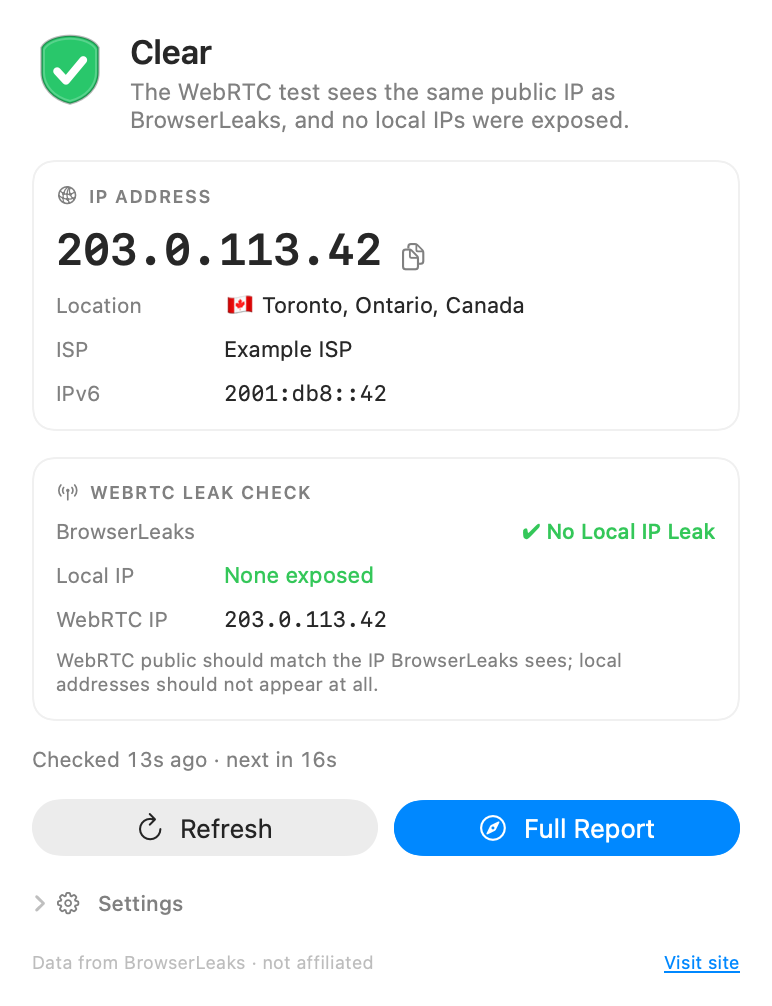
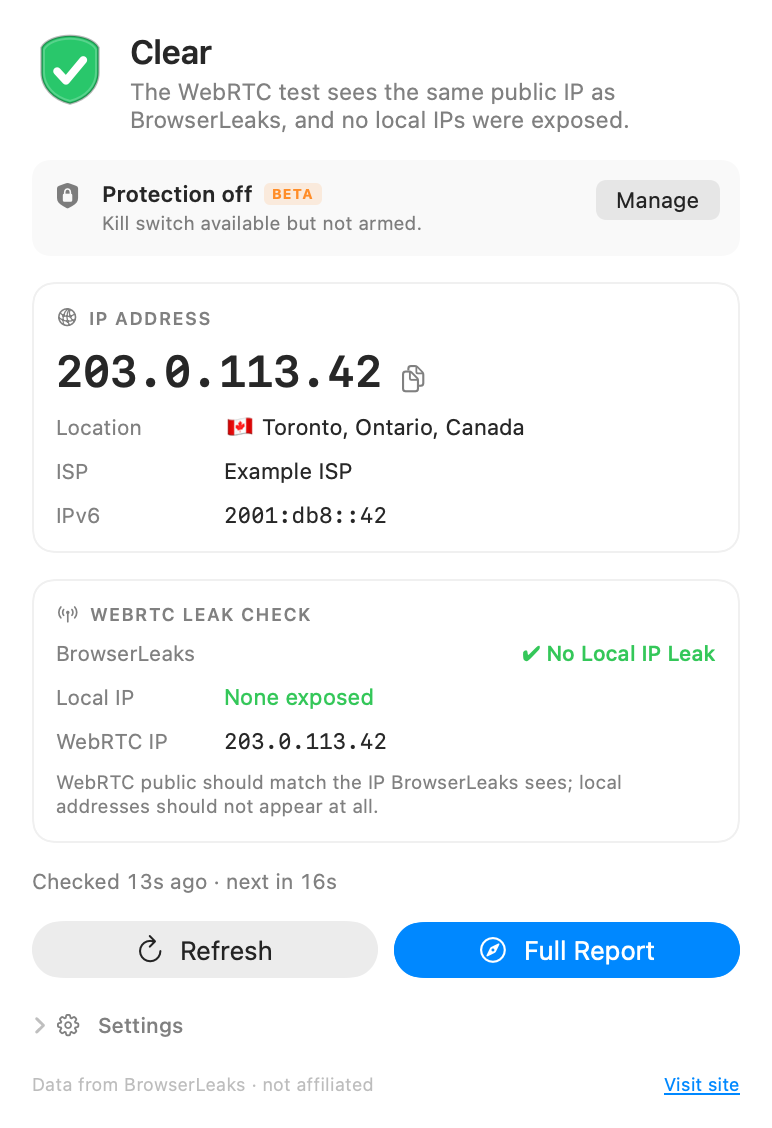
Show Protection in macOS popover and release 1.1.1

diff --git a/Sources/ShieldBar/DashboardView.swift b/Sources/ShieldBar/DashboardView.swift
@@ -5,6 +5,7 @@ import SwiftUI
 @MainActor
 struct DashboardView: View {
     @ObservedObject var monitor: Monitor
+    @ObservedObject var protection: ProtectionController
     let actions: DashboardActions
 
     @State private var copiedIP = false
@@ -16,6 +17,7 @@ struct DashboardView: View {
             if monitor.showWelcome {
                 welcomeCard
             }
+            protectionCard
             ipCard
             webRTCard
             freshness
@@ -79,6 +81,84 @@ struct DashboardView: View {
         .background(
             RoundedRectangle(cornerRadius: 9, style: .continuous)
                 .fill(Color.accentColor.opacity(0.09))
+        )
+    }
+
+    private var protectionCard: some View {
+        let state = protection.viewState
+        let triggered = state.triggered
+        let armed = state.armed
+        let failed = state.phase == .error
+
+        let title: String
+        let detail: String
+        if triggered {
+            title = "Protection triggered"
+            detail = "Networking is disabled. Restore manually when ready."
+        } else if armed {
+            title = "Protection armed"
+            detail = state.baselineLabel.map { "Monitoring · \($0)" }
+                ?? "Monitoring every 15 seconds."
+        } else if failed {
+            title = "Protection error"
+            detail = state.message ?? "Open Protection for details."
+        } else if state.helperInstalled {
+            title = "Protection off"
+            detail = "Kill switch available but not armed."
+        } else {
+            title = "Protection not set up"
+            detail = "Install the helper to enable the kill switch."
+        }
+
+        let tint: Color = triggered ? .red : armed ? .green : failed ? .orange : .secondary
+
+        return HStack(alignment: .top, spacing: 9) {
+            Image(systemName: triggered ? "wifi.slash" : "lock.shield.fill")
+                .font(.system(size: 13, weight: .medium))
+                .foregroundColor(tint)
+                .frame(width: 16, height: 16)
+
+            VStack(alignment: .leading, spacing: 2) {
+                HStack(spacing: 5) {
+                    Text(title)
+                        .font(.system(size: 11, weight: .semibold))
+                    Text("BETA")
+                        .font(.system(size: 7, weight: .bold))
+                        .tracking(0.4)
+                        .padding(.horizontal, 4)
+                        .padding(.vertical, 1)
+                        .background(Color.orange.opacity(0.14))
+                        .foregroundColor(.orange)
+                        .clipShape(RoundedRectangle(cornerRadius: 3, style: .continuous))
+                }
+                Text(detail)
+                    .font(.system(size: 9.5))
+                    .foregroundColor(.secondary)
+                    .fixedSize(horizontal: false, vertical: true)
+            }
+
+            Spacer(minLength: 0)
+
+            if triggered {
+                Button("Restore") {
+                    actions.restoreNetwork()
+                }
+                .buttonStyle(.borderedProminent)
+                .tint(.red)
+                .controlSize(.small)
+                .font(.system(size: 10))
+            } else {
+                Button(state.helperInstalled ? "Manage" : "Set up") {
+                    actions.openProtection()
+                }
+                .controlSize(.small)
+                .font(.system(size: 10))
+            }
+        }
+        .padding(10)
+        .background(
+            RoundedRectangle(cornerRadius: 9, style: .continuous)
+                .fill(tint.opacity(triggered || armed || failed ? 0.09 : 0.05))
         )
     }
 
@@ -283,10 +363,13 @@ struct DashboardView: View {
                     .fixedSize(horizontal: false, vertical: true)
 
                 HStack(spacing: 10) {
+                    Button("Protection…") {
+                        actions.openProtection()
+                    }
+                    Spacer(minLength: 0)
                     Button("About ShieldBar") {
                         actions.showAbout()
                     }
-                    Spacer(minLength: 0)
                     Button("Quit ShieldBar") {
                         actions.quit()
                     }

diff --git a/Sources/ShieldBar/PreviewRenderer.swift b/Sources/ShieldBar/PreviewRenderer.swift
@@ -16,9 +16,14 @@ enum PreviewRenderer {
 
         let actions = DashboardActions(
             openFullReport: {},
+            openProtection: {},
+            restoreNetwork: {},
             quit: {},
             showAbout: {},
             openBrowserLeaks: {}
+        )
+        let previewProtection = ProtectionController(
+            previewState: protectionPreviewState(triggered: false)
         )
 
         let previews: [(String, Monitor)] = [
@@ -33,7 +38,11 @@ enum PreviewRenderer {
         ]
 
         for (name, monitor) in previews {
-            let view = DashboardView(monitor: monitor, actions: actions)
+            let view = DashboardView(
+                monitor: monitor,
+                protection: previewProtection,
+                actions: actions
+            )
             let renderer = ImageRenderer(content: view)
             renderer.scale = 2
             renderer.proposedSize = ProposedViewSize(width: 386, height: nil)
@@ -187,7 +196,7 @@ enum PreviewRenderer {
         var state = ProtectionViewState()
         state.phase = triggered ? .triggered : .ready
         state.helperInstalled = true
-        state.helperVersion = "1.1.0"
+        state.helperVersion = "1.1.1"
         state.settings = ProtectionSettings(
             enabled: true,
             killOnPublicLeak: true,

diff --git a/Sources/ShieldBar/StatusBarController.swift b/Sources/ShieldBar/StatusBarController.swift
@@ -71,6 +71,12 @@ final class StatusBarController: NSObject, NSPopoverDelegate {
                     self?.onOpenFullReport?()
                 }
             },
+            openProtection: { [weak self] in
+                self?.onOpenProtection?()
+            },
+            restoreNetwork: { [weak self] in
+                self?.onRestoreNetwork?()
+            },
             quit: {
                 NSApp.terminate(nil)
             },
@@ -82,7 +88,7 @@ final class StatusBarController: NSObject, NSPopoverDelegate {
             }
         )
 
-        let view = DashboardView(monitor: monitor, actions: actions)
+        let view = DashboardView(monitor: monitor, protection: protection, actions: actions)
         let hosting = NSHostingController(rootView: view)
         hosting.sizingOptions = [.preferredContentSize]
         hostingController = hosting
@@ -267,6 +273,8 @@ final class StatusBarController: NSObject, NSPopoverDelegate {
 
 struct DashboardActions {
     var openFullReport: () -> Void
+    var openProtection: () -> Void
+    var restoreNetwork: () -> Void
     var quit: () -> Void
     var showAbout: () -> Void
     var openBrowserLeaks: () -> Void

diff --git a/desktop/src/renderer/src/protectionFixtures.ts b/desktop/src/renderer/src/protectionFixtures.ts
@@ -13,7 +13,7 @@ export function previewProtectionState(triggered = false): ProtectionState {
     lastTrigger: triggered ? 'publicLeak' : null,
     baselineLabel: triggered ? null : 'Canada · Ontario · Toronto',
     helperInstalled: true,
-    helperVersion: '1.1.0',
+    helperVersion: '1.1.1',
     settings: {
       ...DEFAULT_PROTECTION_SETTINGS,
       enabled: true,

diff --git a/desktop/src/main/index.ts b/desktop/src/main/index.ts
@@ -412,7 +412,7 @@ async function runSmokeTest(): Promise<number> {
     lastTrigger: null,
     baselineLabel: 'Canada',
     helperInstalled: true,
-    helperVersion: '1.1.0',
+    helperVersion: '1.1.1',
     settings: { ...DEFAULT_PROTECTION_SETTINGS, enabled: true },
     baseline: {
       label: 'Canada',

diff --git a/helper/protocol.go b/helper/protocol.go
@@ -10,7 +10,7 @@ import (
 )
 
 const (
-	helperVersion   = "1.1.0"
+	helperVersion   = "1.1.1"
 	protocolVersion = 1
 )
 

diff --git a/README.md b/README.md
@@ -13,7 +13,7 @@
   <img alt="macOS arm64" src="https://img.shields.io/badge/macOS-arm64-111111?logo=apple&logoColor=white">
   <img alt="Windows x64" src="https://img.shields.io/badge/Windows-x64-0078D4?logo=windows&logoColor=white">
   <img alt="Linux x64" src="https://img.shields.io/badge/Linux-x64-FCC624?logo=linux&logoColor=black">
-  <img alt="Version 1.1.0" src="https://img.shields.io/badge/version-1.1.0-2ea44f">
+  <img alt="Version 1.1.1" src="https://img.shields.io/badge/version-1.1.1-2ea44f">
   <img alt="Protection Beta" src="https://img.shields.io/badge/Protection-Beta-orange">
 </p>
 
@@ -29,13 +29,13 @@
 
 ## Download
 
-[**ShieldBar v1.1.0**](https://github.com/TH3L30/ShieldBar/releases/tag/v1.1.0) · [SHA256SUMS.txt](https://github.com/TH3L30/ShieldBar/releases/tag/v1.1.0)
+[**ShieldBar v1.1.1**](https://github.com/TH3L30/ShieldBar/releases/tag/v1.1.1) · [SHA256SUMS.txt](https://github.com/TH3L30/ShieldBar/releases/tag/v1.1.1)
 
 | Platform | Requires | Asset |
 | --- | --- | --- |
-| macOS | macOS 13+, Apple silicon | [`ShieldBar-1.1.0-macos-arm64.zip`](https://github.com/TH3L30/ShieldBar/releases/tag/v1.1.0)* |
-| Windows | Windows 10/11, x64 | [`ShieldBar-1.1.0-win-x64.exe`](https://github.com/TH3L30/ShieldBar/releases/tag/v1.1.0) · [`ShieldBar-1.1.0-win-x64.zip`](https://github.com/TH3L30/ShieldBar/releases/tag/v1.1.0) |
-| Linux | x64, glibc-based distro | [`ShieldBar-1.1.0-linux-x86_64.AppImage`](https://github.com/TH3L30/ShieldBar/releases/tag/v1.1.0) · [`ShieldBar-1.1.0-linux-amd64.deb`](https://github.com/TH3L30/ShieldBar/releases/tag/v1.1.0) |
+| macOS | macOS 13+, Apple silicon | [`ShieldBar-1.1.1-macos-arm64.zip`](https://github.com/TH3L30/ShieldBar/releases/tag/v1.1.1)* |
+| Windows | Windows 10/11, x64 | [`ShieldBar-1.1.1-win-x64.exe`](https://github.com/TH3L30/ShieldBar/releases/tag/v1.1.1) · [`ShieldBar-1.1.1-win-x64.zip`](https://github.com/TH3L30/ShieldBar/releases/tag/v1.1.1) |
+| Linux | x64, glibc-based distro | [`ShieldBar-1.1.1-linux-x86_64.AppImage`](https://github.com/TH3L30/ShieldBar/releases/tag/v1.1.1) · [`ShieldBar-1.1.1-linux-amd64.deb`](https://github.com/TH3L30/ShieldBar/releases/tag/v1.1.1) |
 
 <sub>* The macOS build is arm64, ad-hoc signed, and not notarized. Windows and Linux builds are unsigned. Verify downloads against `SHA256SUMS.txt`. There is no auto-update.</sub>
 
@@ -96,7 +96,7 @@ See [docs/PRIVACY.md](docs/PRIVACY.md) for the full data-handling details.
 
 - **macOS:** unzip, move `ShieldBar.app` to Applications, then Control-click → **Open** the first time. Requires Apple silicon.
 - **Windows:** run the `.exe` installer, or unpack the portable `.zip`. SmartScreen will warn because the build is unsigned.
-- **Linux:** `chmod +x` the AppImage and run it, or install the `.deb` with `sudo apt install ./ShieldBar-1.1.0-linux-amd64.deb`.
+- **Linux:** `chmod +x` the AppImage and run it, or install the `.deb` with `sudo apt install ./ShieldBar-1.1.1-linux-amd64.deb`.
 
 ShieldBar lives in the **menu bar** on macOS and the **system tray** on Windows and Linux. It keeps running when windows close; use **Quit ShieldBar** to exit. Protection requires ShieldBar to stay running.
 

diff --git a/docs/BUILD.md b/docs/BUILD.md
@@ -172,10 +172,10 @@ Artifacts are written to `desktop/release/`:
 
 | Asset | Format |
 | --- | --- |
-| `ShieldBar-1.1.0-win-x64.exe` | Per-user NSIS installer |
-| `ShieldBar-1.1.0-win-x64.zip` | Portable zip |
-| `ShieldBar-1.1.0-linux-x86_64.AppImage` | AppImage |
-| `ShieldBar-1.1.0-linux-amd64.deb` | Debian package |
+| `ShieldBar-1.1.1-win-x64.exe` | Per-user NSIS installer |
+| `ShieldBar-1.1.1-win-x64.zip` | Portable zip |
+| `ShieldBar-1.1.1-linux-x86_64.AppImage` | AppImage |
+| `ShieldBar-1.1.1-linux-amd64.deb` | Debian package |
 
 The version comes from `desktop/package.json`. Packaging is unsigned and uses `CSC_IDENTITY_AUTO_DISCOVERY=false` in CI. There is no auto-updater.
 
@@ -221,9 +221,9 @@ No code-signing secrets are used. Windows and Linux artifacts are unsigned; the 
    - the README badges, download table, and asset names
 2. Run the native and Electron test suites, plus both self-tests on a machine with working network access.
 3. Build the macOS app locally and create its zip (`Scripts/build-app.sh` writes `ShieldBar.app.zip`). Run `Scripts/self-test.sh` against the installed bundle.
-4. Commit the version bump and tag it, for example `v1.1.0`.
+4. Commit the version bump and tag it, for example `v1.1.1`.
 5. Let CI create the draft release with the Windows and Linux assets and `SHA256SUMS.txt`.
-6. Attach the macOS arm64 zip manually as `ShieldBar-1.1.0-macos-arm64.zip`. Because CI generated the checksum file before the macOS asset existed, add the macOS checksum and upload the updated `SHA256SUMS.txt`.
+6. Attach the macOS arm64 zip manually as `ShieldBar-1.1.1-macos-arm64.zip`. Because CI generated the checksum file before the macOS asset existed, add the macOS checksum and upload the updated `SHA256SUMS.txt`.
 7. Smoke-test the installers on clean Windows, Linux, and macOS machines or VMs.
 8. Publish the draft.
 

diff --git a/docs/TROUBLESHOOTING.md b/docs/TROUBLESHOOTING.md
@@ -24,7 +24,7 @@ Try these in order:
    ShieldBar.exe --restore-network
 
    # Linux AppImage; use the installed shieldbar binary for a .deb
-   ./ShieldBar-1.1.0-linux-x86_64.AppImage --restore-network
+   ./ShieldBar-1.1.1-linux-x86_64.AppImage --restore-network
    ```
 
 4. Helper command line, with administrator/root privileges:
@@ -162,14 +162,14 @@ Closing the popover or report window does not quit the app. Use **Quit ShieldBar
 The AppImage requires FUSE.
 
 ```sh
-chmod +x ShieldBar-1.1.0-linux-x86_64.AppImage
-./ShieldBar-1.1.0-linux-x86_64.AppImage
+chmod +x ShieldBar-1.1.1-linux-x86_64.AppImage
+./ShieldBar-1.1.1-linux-x86_64.AppImage
 ```
 
 If FUSE is unavailable:
 
 ```sh
-./ShieldBar-1.1.0-linux-x86_64.AppImage --appimage-extract-and-run
+./ShieldBar-1.1.1-linux-x86_64.AppImage --appimage-extract-and-run
 ```
 
 Installing your distribution's FUSE 2 compatibility package is the permanent fix. The `.deb` does not need FUSE.
@@ -187,7 +187,7 @@ The Windows build is unsigned, so SmartScreen warns about an unknown publisher.
 3. Verify the download against `SHA256SUMS.txt`:
 
    ```powershell
-   Get-FileHash .\ShieldBar-1.1.0-win-x64.exe -Algorithm SHA256
+   Get-FileHash .\ShieldBar-1.1.1-win-x64.exe -Algorithm SHA256
    ```
 
 There is no code-signing certificate and no auto-update.

diff --git a/desktop/README.md b/desktop/README.md
@@ -109,10 +109,10 @@ npm run dist:linux  # AppImage + .deb (x64)
 
 Artifacts are written to `desktop/release/`:
 
-- `ShieldBar-1.1.0-win-x64.exe` — per-user NSIS installer
-- `ShieldBar-1.1.0-win-x64.zip` — portable zip
-- `ShieldBar-1.1.0-linux-x86_64.AppImage`
-- `ShieldBar-1.1.0-linux-amd64.deb`
+- `ShieldBar-1.1.1-win-x64.exe` — per-user NSIS installer
+- `ShieldBar-1.1.1-win-x64.zip` — portable zip
+- `ShieldBar-1.1.1-linux-x86_64.AppImage`
+- `ShieldBar-1.1.1-linux-amd64.deb`
 
 Builds are unsigned. Windows SmartScreen warns about an unknown publisher; Linux packages are unsigned too. There is no auto-updater.
 

diff --git a/docs/PRIVACY.md b/docs/PRIVACY.md
@@ -155,4 +155,4 @@ None of this local information is transmitted.
 
 ## Changes
 
-If a future version adds persistence, telemetry, or a new network destination, this document and the app's behavior must be updated together. The current v1.1.0 build does not include any such feature.
+If a future version adds persistence, telemetry, or a new network destination, this document and the app's behavior must be updated together. The current v1.1.1 build does not include any such feature.

diff --git a/docs/KILL-SWITCH.md b/docs/KILL-SWITCH.md
@@ -178,7 +178,7 @@ On Windows and Linux, run the Electron executable with the same flag:
 ShieldBar.exe --restore-network
 
 # Linux AppImage
-./ShieldBar-1.1.0-linux-x86_64.AppImage --restore-network
+./ShieldBar-1.1.1-linux-x86_64.AppImage --restore-network
 ```
 
 For a `.deb` install, use the installed `shieldbar` executable. The helper still needs to be installed and running.
